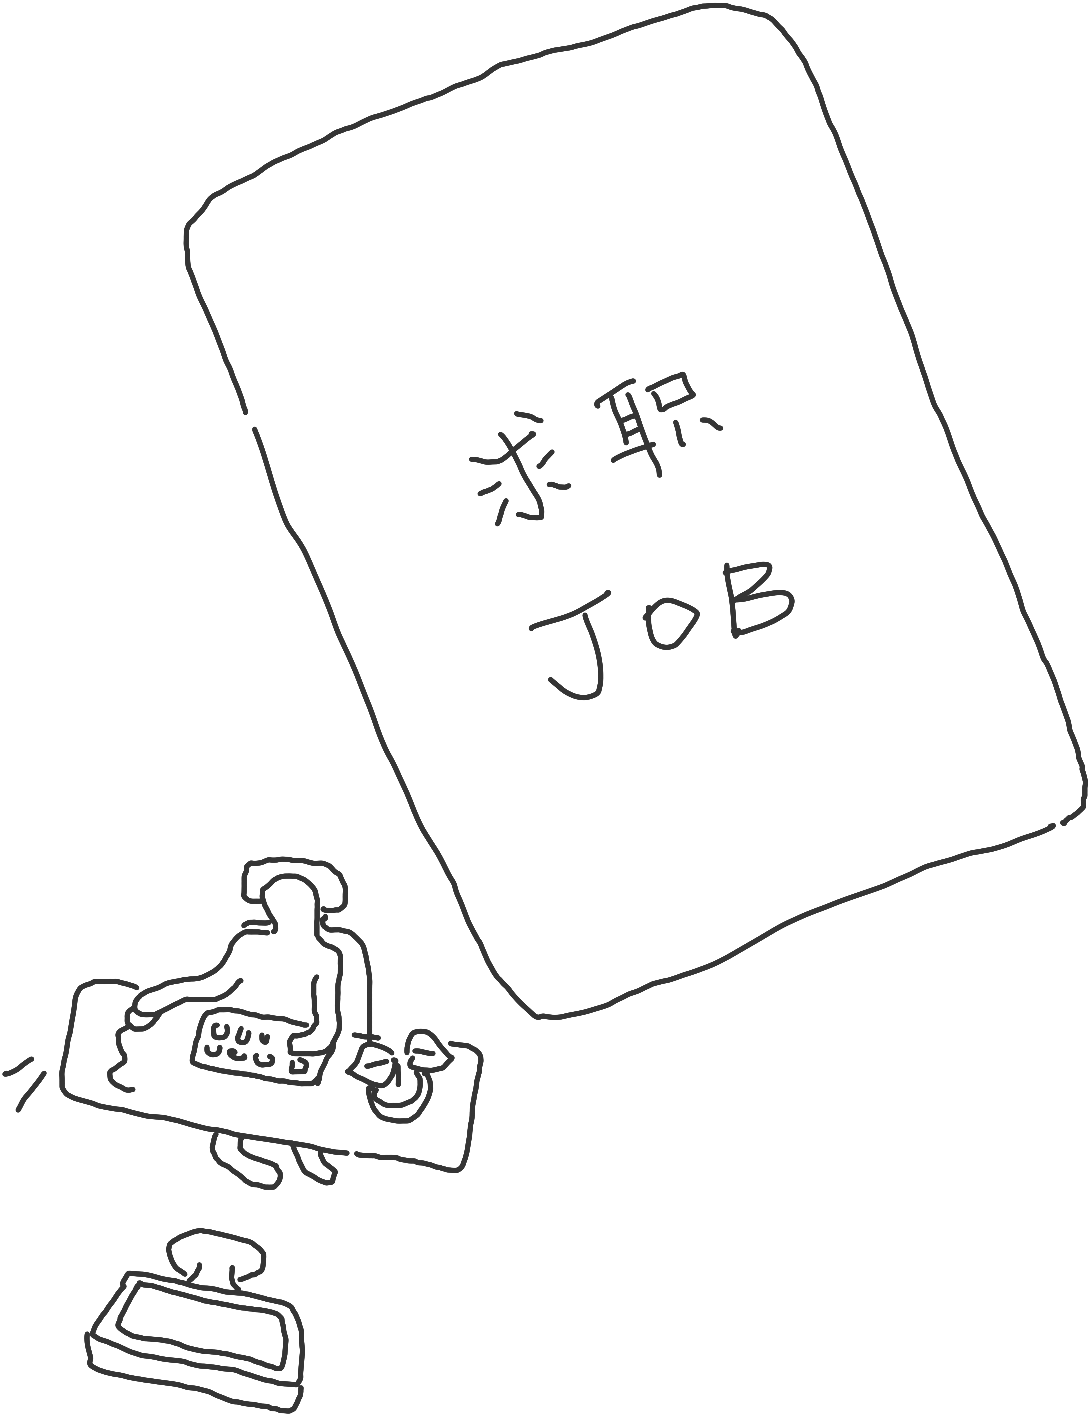
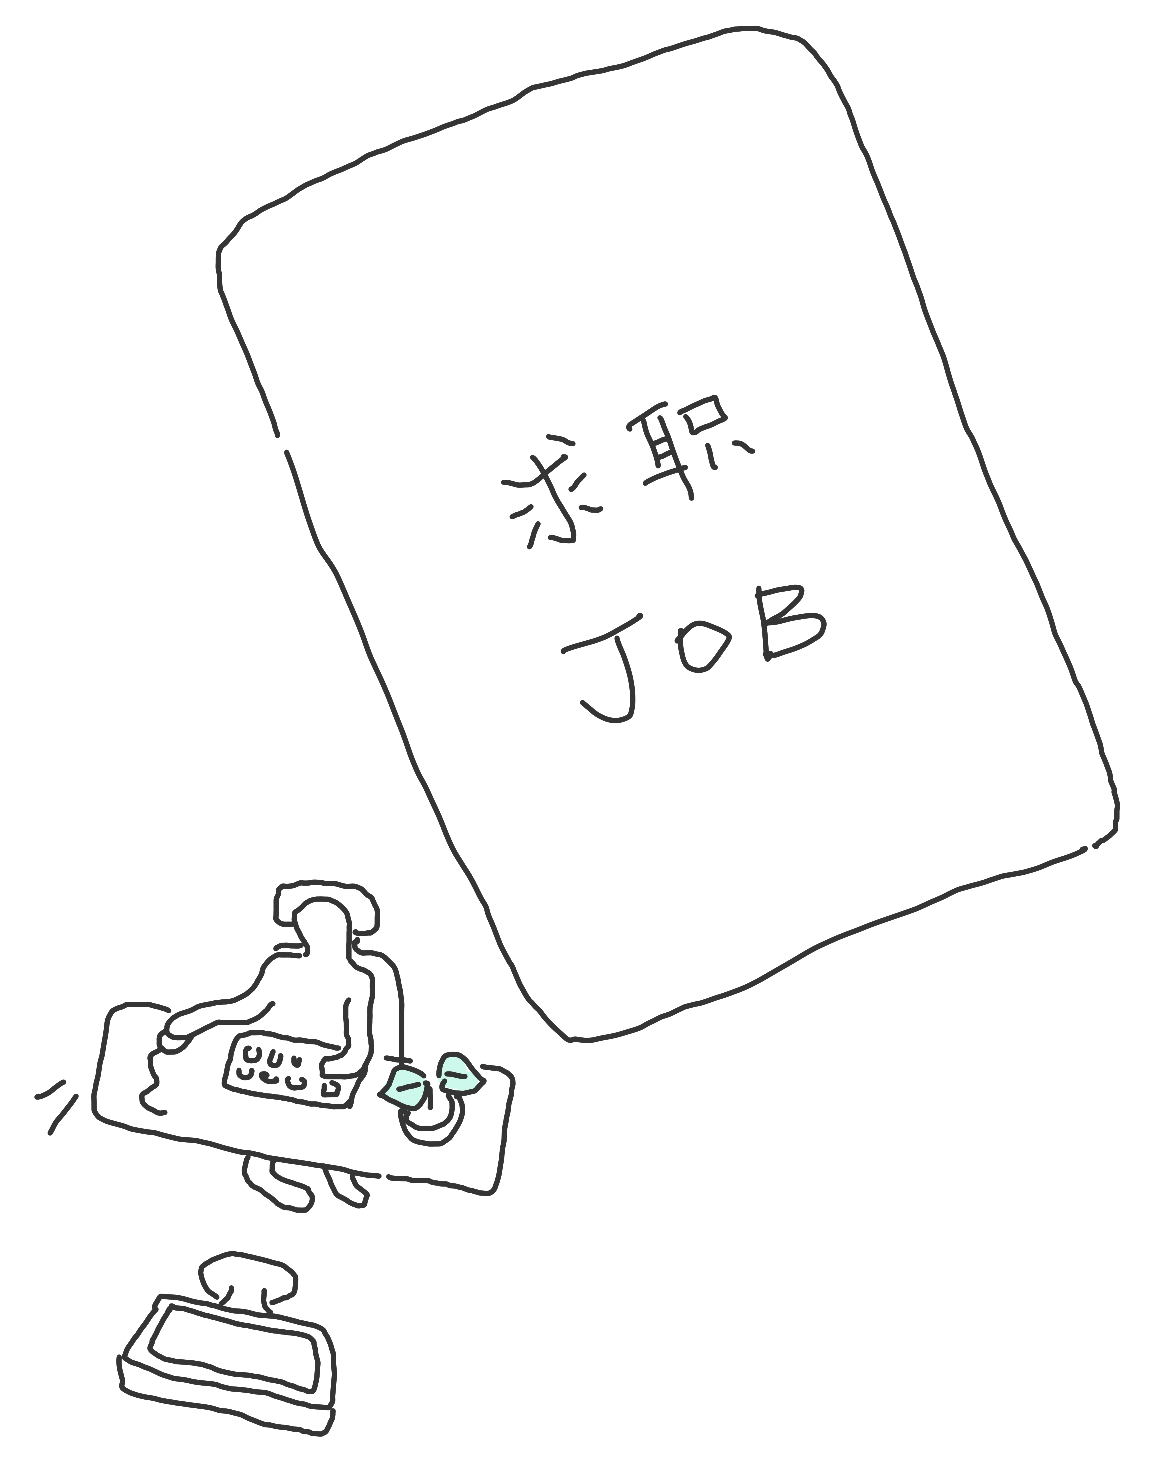
home3-√

diff --git a/styles.css b/styles.css
@@ -42,7 +42,7 @@ input:focus-visible {
 }
 
 .shell {
-  width: min(1240px, calc(100% - 48px));
+  width: min(1800px, calc(100% - 64px));
   margin: 0 auto;
 }
 
@@ -107,6 +107,15 @@ input:focus-visible {
   min-height: calc(100vh - 190px);
 }
 
+.home-page {
+  display: grid;
+  grid-template-columns: 40% 60%;
+  align-items: center;
+  width: min(calc(100% - 64px), 1800px);
+  margin: 0 auto;
+  padding: 0;
+}
+
 /* Adjust these four zoom values for the shared image scale at each screen width. */
 img {
   display: block;
@@ -118,19 +127,22 @@ img {
 }
 
 .home-hero {
+  grid-column: 1;
   display: flex;
   justify-content: center;
-  padding: 36px 0px 41px;
+  padding: 0;
 }
 
 .home-entries {
+  grid-column: 2;
   position: relative;
-  left: 50%;
-  transform: translateX(-50%);
-  width: max-content;
+  left: auto;
+  transform: none;
+  width: 100%;
   display: flex;
-  align-items: flex-start;
-  padding: 0 0 76px;
+  align-items: center;
+  justify-content: center;
+  padding: 0;
 }
 
 .entry-card {
@@ -150,8 +162,8 @@ img {
 
 .entry-card+.entry-card {
   z-index: 1;
-  margin-left: -98px;
-  margin-top: 52px;
+  margin-left: 0;
+  margin-top: 0;
 }
 
 .section-heading {
@@ -436,7 +448,7 @@ img {
 
 @media (max-width: 760px) {
   .shell {
-    width: calc(100% - 32px);
+    width: calc(100% - 45px);
   }
 
   .header-inner {
@@ -483,14 +495,14 @@ img {
 
   .entry-card:first-child {
     z-index: 2;
-    left: -24px;
+    left: -40px;
   }
 
   .entry-card+.entry-card {
     z-index: 1;
-    margin-left: 29px;
-    margin-top: -190px;
-    left: 24px;
+    margin-left: 50px;
+    margin-top: -175px;
+    left: 20px;
   }
 
   .section-heading {
@@ -546,25 +558,102 @@ img {
   }
 }
 
+@media (min-width: 601px) and (max-width: 1299px) {
+  .home-page {
+    display: flex;
+    flex-direction: column;
+    justify-content: center;
+    width: calc(100% - 32px);
+  }
+
+  .home-hero {
+    padding: 36px 0 36px;
+  }
+
+  .home-entries {
+    position: static;
+    left: auto;
+    transform: none;
+    flex-direction: row;
+    align-items: center;
+    justify-content: center;
+    width: 100%;
+    margin: 0 auto;
+    gap: 0;
+    padding: 0 0 76px;
+  }
+
+  .entry-card:first-child,
+  .entry-card+.entry-card {
+    left: 0;
+    margin: 0;
+  }
+
+  /* middle column */
+  .home-page .entry-card+.entry-card {
+    margin-left: -88px;
+    margin-top: 16px;
+  }
+
+  /* middle column */
+}
+
+@media (min-width: 1300px) {
+
+  /* wide column */
+  .home-entries .entry-card+.entry-card {
+    margin-left: -96px;
+    margin-top: -8px;
+    /* wide column */
+  }
+}
+
+@media (max-width: 600px) {
+  .home-page {
+    display: flex;
+    flex-direction: column;
+    align-items: center;
+    width: 100%;
+  }
+}
+
 @media (max-width: 1100px) {
   img {
-    zoom: .42;
+    zoom: .31;
   }
 }
 
 @media (max-width: 900px) {
   img {
-    zoom: .36;
+    zoom: .26;
+  }
+}
+
+@media (max-width: 760px) {
+  img {
+    zoom: .20;
   }
 }
 
 @media (max-width: 600px) {
   img {
-    zoom: .27;
+    zoom: .25;
   }
 
   body {
     font-size: 14px;
+  }
+}
+
+@media (max-width: 380px) {
+  img {
+    zoom: .20;
+  }
+}
+
+@media (min-width: 1601px) {
+  img {
+    zoom: .42;
   }
 }
 
